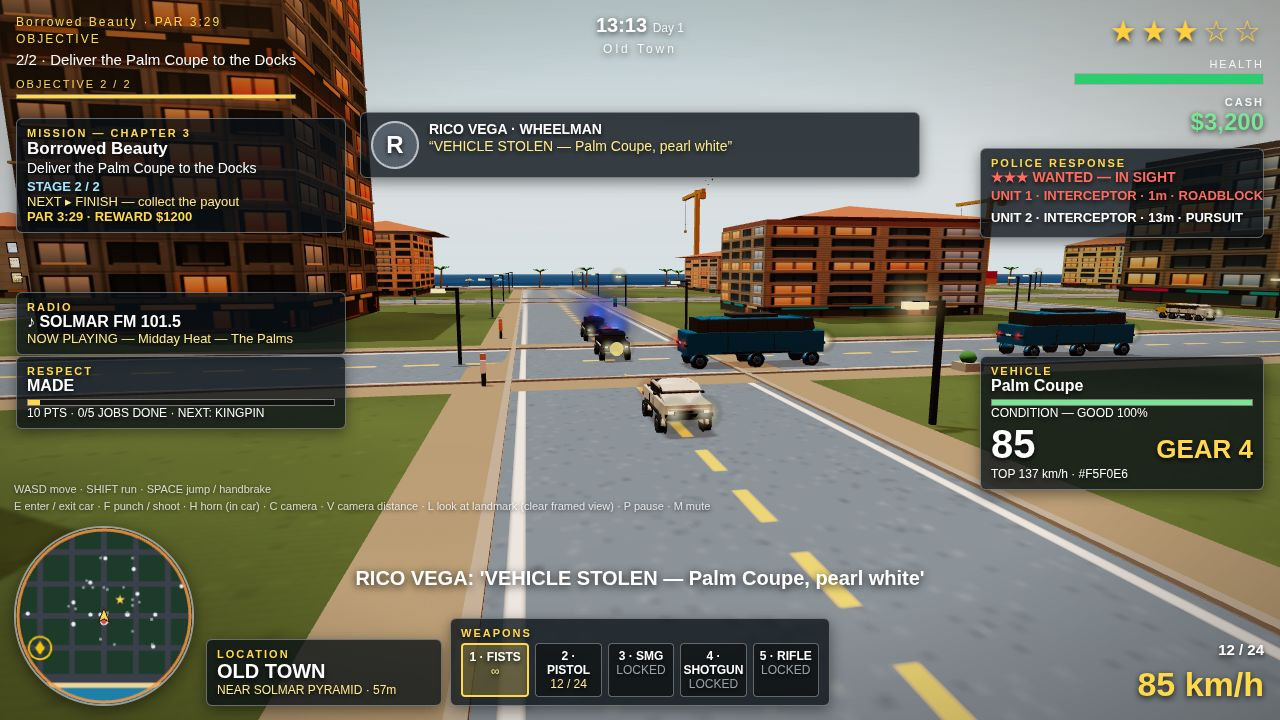
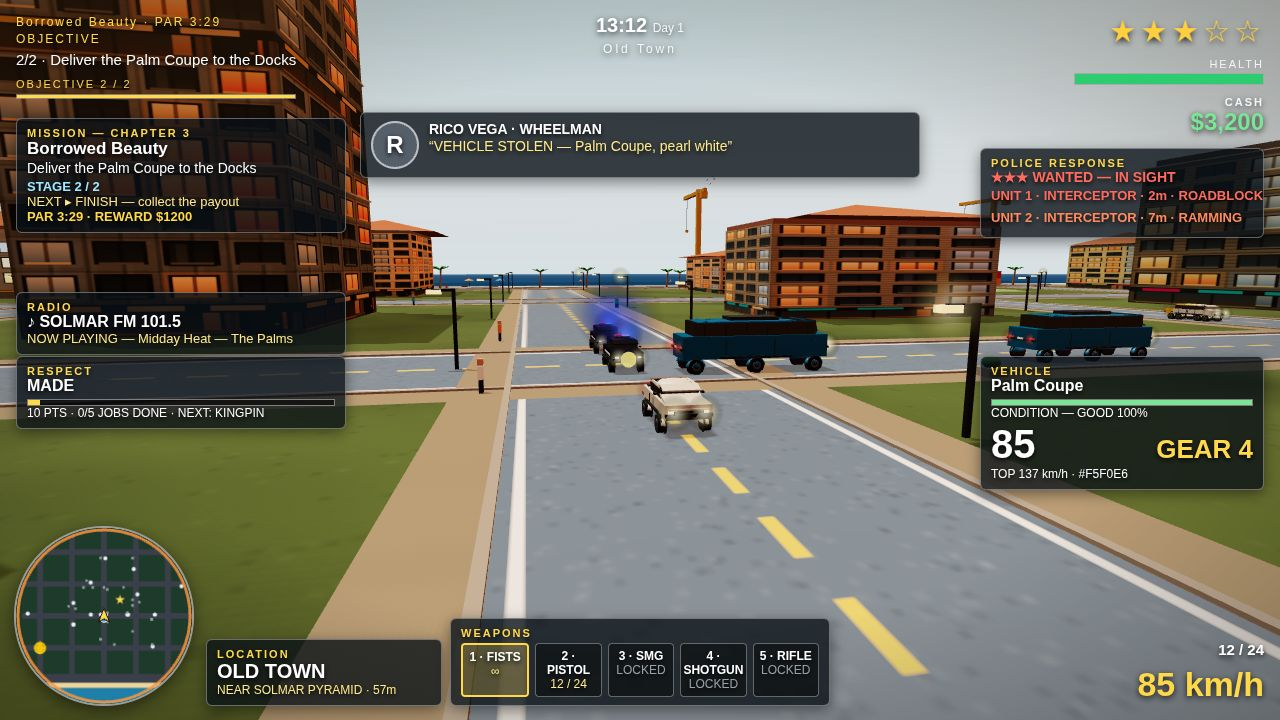
Round 13B: six fixes to the round-13 shots (perfection pass)
- HUD (Lane A): staged dialogue shows once — the message-line echo is
  swallowed and #controls-hint hides in shot mode; normal gameplay
  untouched (hint stays, ordinary messages still show).
- Cover: fallback heli scale 1.6 at (45,22,-97), clear of the clock and
  the dialogue box at any capture moment.
- Combat: six officers at 10-12.5 m with red diamond markers + visible
  pistols, so they read as hostiles, not pedestrians.
- Pursuit: interceptors stage 12 m / 22 m behind the player (was 18/30 m).
- Sunset: camera 10 m from Rico (~110 px tall), coupe to (200,-142),
  Dante to z -138, Marina Bridge vista kept.
- Every counted file carries a round-13B line (incl. favicon tEXt
  Round=13B); verified by round13b-test.mjs, two all-green runs.

diff --git a/game/src/main.js b/game/src/main.js
@@ -435,7 +435,7 @@ function flashImpact(pos, kind) {
   impactTimer = 0.12;
 }
 
-function makePersonMesh(shirtColor) {
+function makePersonMesh(shirtColor, hostile) {
   const g = new THREE.Group();
   const matShirt = new THREE.MeshStandardMaterial({ color: shirtColor || 0x888888, roughness: 0.9 });
   const matSkin = new THREE.MeshStandardMaterial({ color: 0xc98d64, roughness: 0.8 });
@@ -451,17 +451,38 @@ function makePersonMesh(shirtColor) {
   const legR = legL.clone();
   legR.position.x = 0.14;
   g.add(body, head, legL, legR);
+  if (hostile) {
+    // Round-13B (Lane B): a hostile reads as a hostile, not a
+    // pedestrian. Red diamond marker floating just above the head
+    // (unlit, always vivid) + a dark pistol held forward toward Rico
+    // (local +z is the facing direction: rotation.y = heading).
+    // Only built when `hostile` is passed (the combat shot) — normal
+    // gameplay officers keep the plain mesh, so no other shot pays
+    // for it. Cost per officer: +2 meshes, +20 tris.
+    const marker = new THREE.Mesh(
+      new THREE.OctahedronGeometry(0.38, 0),
+      new THREE.MeshBasicMaterial({ color: 0xff2a1a }),
+    );
+    marker.position.y = 2.25;
+    g.add(marker);
+    const gun = new THREE.Mesh(
+      new THREE.BoxGeometry(0.09, 0.14, 0.42),
+      new THREE.MeshStandardMaterial({ color: 0x111111, roughness: 0.6 }),
+    );
+    gun.position.set(0.15, 1.15, 0.35);
+    g.add(gun);
+  }
   return g;
 }
 const pedMeshes = new Map();
 const officerMeshes = new Map();
-function syncPersonMeshes(list, meshMap, shirtColor) {
+function syncPersonMeshes(list, meshMap, shirtColor, hostile) {
   const seen = new Set();
   for (const person of list) {
     seen.add(person);
     let mesh = meshMap.get(person);
     if (!mesh) {
-      mesh = makePersonMesh(person.shirt || shirtColor);
+      mesh = makePersonMesh(person.shirt || shirtColor, hostile);
       meshMap.set(person, mesh);
       scene.add(mesh);
     }
@@ -1295,7 +1316,7 @@ function update(dt) {
       player.health = combat.getHealth();
     },
   });
-  syncPersonMeshes(police.getOfficers(), officerMeshes, '#1a2a4a');
+  syncPersonMeshes(police.getOfficers(), officerMeshes, '#1a2a4a', SHOT === 'combat');
 
   // Police light bars (round-2 polish): flash every police car's roof
   // bar on the siren phase.
@@ -1718,7 +1739,7 @@ function stagePursuitCars(x, zBehind1, zBehind2, heading) {
 // sky never gets two choppers. Cost: 8 meshes, ~96 tris, ~8 draw
 // calls — inside the round-12 headroom (4,262 calls / 149,560 tris vs
 // caps 4,300 / 150,000). Exposed as __solmar.round13.heli.
-function buildShotHeli(x, y, z) {
+function buildShotHeli(x, y, z, scale = 1) {
   // Skip only when a heli actually exists right now. (A bare
   // `typeof police.getHelicopter === 'function'` check used to skip
   // whenever Lane 2's API existed — even with no heli spawned — which
@@ -1729,6 +1750,7 @@ function buildShotHeli(x, y, z) {
   const matWhite = new THREE.MeshStandardMaterial({ color: 0xe8e8e8, roughness: 0.5 });
   const matDark = new THREE.MeshStandardMaterial({ color: 0x111111, roughness: 0.6 });
   const g = new THREE.Group();
+  g.scale.setScalar(scale);
   const body = new THREE.Mesh(new THREE.BoxGeometry(2.2, 1.5, 4.2), matBody);
   const stripe = new THREE.Mesh(new THREE.BoxGeometry(2.24, 0.4, 4.24), matWhite);
   stripe.position.y = -0.2;
@@ -1801,10 +1823,19 @@ function stageCoverChase() {
   // (crop-zoom of run 2 confirms: no heli anywhere in the top frame).
   // The third (x 38, y 15, z -92) IS in the frustum — projection probe
   // puts it at screen (685, 158) — but the DIALOGUE BOX covers exactly
-  // x 360-920, y 112-178, so the HUD itself hides the chopper. This
-  // one flies higher (y 22): it projects to ~y 77 px, above the box,
-  // a dark silhouette against the clean orange sky.
-  shotHeli = buildShotHeli(38, 22, -92);
+  // x 360-920, y 112-178, so the HUD itself hides the chopper. The
+  // fourth (x 38, y 22, z -92) projects to ~y 77 px in the round-13
+  // capture, but the Lane B probe (test-exact timing, two runs) puts
+  // the live heli at screen (701, 6-9) — half out of the top edge,
+  // touching the 17:49 clock — because the capture moment varies with
+  // convergence latency: as the car drives on, the heli sinks ~3.6 px
+  // per metre toward the dialogue box. Round-13B: (x 45, y 22, z -97),
+  // scale 1.6 (rotor 13.6 m, ~150 px wide — same 8 meshes, 0 extra
+  // draw calls, 0 extra tris). Probe at test timing: screen ~(805, 50)
+  // at the earliest capture, drifting to ~(830, 95) at a run-2-like
+  // late capture — right of the clock (ends x ~690), above the
+  // dialogue box (starts y 112), clear of the stars (x 1080+).
+  shotHeli = buildShotHeli(45, 22, -97, 1.6);
   missions.startMission(2, world, systems());
   settleShot(24);
   police.setWanted(4); // re-pin after the settle (speeding rule fires once)
@@ -1852,7 +1883,12 @@ function stageCombat() {
   // placeOfficersArc zeroes their arrest timers.
   for (let i = 0; i < 90 && police.getOfficers().length < 6; i++) update(1 / 60);
   police.setWanted(4); // re-pin (the grab already spiked it to 4)
-  placeOfficersArc([12, 13, 14, 12.5, 13.5, 14.5]);
+  // Round-13B (Lane B): officers closer (10-12.5 m, was 12-14.5 m) so
+  // the red markers + pistols read at capture size; still far enough
+  // that the 6 m/s chase cannot reach the 2.2 m arrest range before
+  // the panels converge (arrest needs ~2.8 s game time, panels
+  // converge in a few wall seconds at ~0.05 s game per wall second).
+  placeOfficersArc([10, 11, 12, 10.5, 11.5, 12.5]);
   placePeds([
     { roadX: 200, side: -1, z: 194, heading: Math.PI / 2 },
     { roadX: 200, side: -1, z: 206, heading: Math.PI / 2 },
@@ -1883,7 +1919,12 @@ function stagePursuit() {
   police.maxPoliceCars = 2;
   police.maxOfficers = 0;
   police.addWanted(3);
-  stagePursuitCars(-120, 138, 150, Math.PI);
+  // Round-13B (Lane B): interceptors closer — 12 m / 22 m behind the
+  // player (was 18 m / 30 m), so the lead car reads ~1.4x bigger with
+  // its light bar clearly visible. Both hold ~21-24 m/s against the
+  // player's pinned 24, so the gap stays ~13.5 m / ~23.5 m at capture
+  // and neither car can ram the player.
+  stagePursuitCars(-120, 132, 142, Math.PI);
   missions.startMission(3, world, systems());
   settleShot(24);
   police.setWanted(3); // re-pin after the settle (speeding rule fires once)
@@ -1908,15 +1949,31 @@ function stageSunset() {
   money = 950;
   player.teleport(196, -138, 1.26); // facing ESE, toward Dante
   camYaw = player.heading + Math.PI;
-  const car = createCar(scene, 'coupe', 0x2e86c1, 204, -134, 0);
+  // Round-13B (Lane B): coupe moved to (200,-142) (was 204,-134) —
+  // the closer camera pushes a coupe at -134 out of the right edge,
+  // and at (204,-142) its centre lands at screen (1087, 382), hidden
+  // behind the VEHICLE panel (x 980-1265, y 360-490). At (200,-142)
+  // it projects to (882, 379): right of Rico, clear of the panel.
+  const car = createCar(scene, 'coupe', 0x2e86c1, 200, -142, 0);
   spawnedCars.add(car);
-  shotCam = { mode: 'fixed', pos: [199, 2.8, -121], look: [196, 1.6, -138] };
+  // Round-13B (Lane B): camera 10 m from Rico (was 17.3 m) — Rico
+  // ~110 px tall on screen (was ~65 px). Hypothetical-camera probe:
+  // the 9 m camera centred on Rico leaves Dante at screen x ~113
+  // (cut off at the left edge), so the look is shifted slightly
+  // toward Dante instead: Rico (655, 395/345), Dante (232, 420/354),
+  // coupe (882, 379), bridge deck still spanning y ~280 across the
+  // frame — the Marina Bridge vista survives the move-in.
+  shotCam = { mode: 'fixed', pos: [198.6, 2.3, -128.2], look: [195.8, 1.6, -137.8] };
   missions.startMission(1, world, systems());
   settleShot(24);
   placePeds([
     // Dante on the WEST sidewalk, facing Rico — the east spot put him
-    // behind the parked coupe and out of the frame.
-    { roadX: 200, side: -1, z: -134, heading: Math.PI / 2 },
+    // behind the parked coupe and out of the frame. Round-13B: z -138
+    // (was -134) — with the closer 10 m camera, -134 projects to
+    // screen (232, 420), dead-centre behind the RADIO + RESPECT panels
+    // (x 15-345); -138 projects to (427, 386), clear of every panel,
+    // beside Rico with the coupe to his right.
+    { roadX: 200, side: -1, z: -138, heading: Math.PI / 2 },
   ]);
   shotRadio = { station: 'SOLMAR FM 101.5', song: 'Golden Hour — The Palms' };
   setShotDialogue('MAMA LOU', 'Boss', 'Golden hour over the Bay, Rico. Make it count.');

diff --git a/game/src/hud.js b/game/src/hud.js
@@ -220,6 +220,18 @@ export class HUD {
     this._chaseToastTimer = null;
     this._r13 = null; // round 13: the eight dense-HUD panels, built lazily
     this._r13Sig = {}; // round 13: last rendered signature per panel (skip no-change frames)
+    this._currentDialogueLine = ''; // round-13B Lane A: line the dialogue box is showing
+    this._controlsHintHidden = false; // round-13B Lane A: hint hidden once in shot mode
+    // Round-13B Lane A: staged screenshot mode (?shot=...) hides the
+    // controls-hint line — it clutters the frame. Normal gameplay
+    // (no ?shot=) keeps the hint. Detected once here; the first
+    // update() frame applies it too, in case the DOM was not ready yet.
+    this._shotMode = false;
+    try {
+      const win = this.doc?.defaultView || (typeof window !== 'undefined' ? window : null);
+      this._shotMode = new URLSearchParams(win?.location?.search || '').has('shot');
+    } catch (_) { this._shotMode = false; }
+    if (this._shotMode) this._hideControlsHint();
   }
 
   _el(name) {
@@ -237,9 +249,41 @@ export class HUD {
   }
 
   showMessage(text, seconds = 4) {
+    // Round-13B Lane A: a direct toast of the dialogue line (main.js
+    // setShotDialogue toasts it for 30 s) is the same echo the
+    // dialogue box already shows — swallow it once update() has
+    // resolved the current line. Before the first update() the line
+    // is unknown, so the toast may land briefly; the update() echo
+    // branch clears it on the first frame.
+    if (text && this._currentDialogueLine && this._messageCoreLine(text) === this._currentDialogueLine) {
+      this._lastMessage = text || '';
+      this._messageTimer = 0;
+      this._setText('message', '');
+      return;
+    }
     this._lastMessage = text || '';
     this._messageTimer = seconds;
     this._setText('message', this._lastMessage);
+  }
+
+  // Round-13B Lane A: hide #controls-hint in staged screenshot mode.
+  // Idempotent; no-ops in normal gameplay or when the element is absent.
+  _hideControlsHint() {
+    if (!this._shotMode || this._controlsHintHidden || !this.doc) return;
+    const el = (typeof this.doc.getElementById === 'function') ? this.doc.getElementById('controls-hint') : null;
+    if (!el) return;
+    el.style.display = 'none';
+    this._controlsHintHidden = true;
+  }
+
+  // Round-13B Lane A: the bare line inside a "Speaker: 'line'" message
+  // (the form main.js builds for shotDialogue), or the message itself.
+  // Greedy to the LAST quote so a line containing an apostrophe
+  // ("don't look back") still extracts whole.
+  _messageCoreLine(text) {
+    if (typeof text !== 'string') return '';
+    const m = text.match(/^([A-Za-z][A-Za-z ]+):\s*'([\s\S]*)'$/);
+    return m ? m[2] : text;
   }
 
   // ---- round 4: elements the HUD builds itself (index.html has no slots
@@ -696,9 +740,12 @@ export class HUD {
   // the mission/objective table (missions.js objectiveFlavour verbatim);
   // a live state.message starting with "Name: '...'" is parsed as a
   // third source; free roam falls back to the standing Rico line.
-  renderDialogue(state = {}) {
-    const P = this._ensureRound13Panels();
-    if (!P || !P.dialogue) return;
+  // Round-13B Lane A: the dialogue entry the box shows, resolved the
+  // same way renderDialogue does — explicit state.dialogue first,
+  // then the mission/objective table, then a "Name: 'line'" message,
+  // then the free-roam fallback. Pure read of `state`; shared by
+  // renderDialogue and the message-line echo check in update().
+  _resolveDialogueEntry(state = {}) {
     let entry = null;
     if (state.dialogue && typeof state.dialogue === 'object') {
       entry = { speaker: state.dialogue.speaker || 'Rico Vega', role: state.dialogue.role || '', line: state.dialogue.line || '' };
@@ -714,6 +761,13 @@ export class HUD {
       if (m) entry = { speaker: m[1], role: '', line: m[2] };
     }
     if (!entry || !entry.line) entry = ROUND13_FREE_ROAM_DIALOGUE;
+    return entry;
+  }
+
+  renderDialogue(state = {}) {
+    const P = this._ensureRound13Panels();
+    if (!P || !P.dialogue) return;
+    const entry = this._resolveDialogueEntry(state);
     const sig = [entry.speaker, entry.role, entry.line].join('|');
     if (!this._r13Changed('dialogue', sig)) return;
     P.dialoguePortrait.textContent = (entry.speaker || 'R').trim().charAt(0).toUpperCase();
@@ -836,6 +890,9 @@ export class HUD {
   update(state = {}) {
     if (!state) return;
     const dt = state.dt ?? 1 / 60;
+    // Round-13B Lane A: apply the shot-mode controls-hint hide on the
+    // first frame too (covers a HUD built before the DOM was ready).
+    this._hideControlsHint();
 
     // --- Wanted stars: filled ★ up to the level, empty ☆ after. ---
     const wanted = clamp(Math.round(state.wanted ?? 0), 0, 5);
@@ -950,7 +1007,22 @@ export class HUD {
     this._setText('clock', formatClock(state.timeOfDay));
 
     // --- Message line: a fresh message overrides, then it fades out. ---
-    if (state.message && state.message !== this._lastMessage) {
+    // Round-13B Lane A: when the message IS the dialogue line — the
+    // staged shots pass the same shotDialogue text as both `message`
+    // and `dialogue`, and main.js also toasts it via showMessage() —
+    // the dialogue box already shows it, so the big centre message
+    // line would print the same sentence twice. Swallow the echo
+    // (keep _lastMessage in sync so the 4 s re-fire loop cannot
+    // resurrect it); any other message still shows normally.
+    const dialogueEntry = this._resolveDialogueEntry(state);
+    this._currentDialogueLine = dialogueEntry ? dialogueEntry.line : '';
+    const isDialogueEcho = Boolean(state.message && this._currentDialogueLine
+      && this._messageCoreLine(state.message) === this._currentDialogueLine);
+    if (isDialogueEcho) {
+      this._lastMessage = state.message;
+      this._messageTimer = 0;
+      this._setText('message', '');
+    } else if (state.message && state.message !== this._lastMessage) {
       this.showMessage(state.message, state.messageSeconds ?? 4);
     } else if (this._messageTimer > 0) {
       this._messageTimer -= dt;

diff --git a/game/index.html b/game/index.html
@@ -121,6 +121,7 @@
   <div id="message"></div>
   <div id="crosshair" class="hidden"></div>
   <!-- Round-11 final (re-touch): the L hint promises a "clear framed view" — the consolidated harness verifies it by screenshotting the settled focus view immediately after re-arming L, never the chase camera. -->
+<!-- Round-13B: #controls-hint is hidden by hud.js in staged (?shot=) mode; the element itself is unchanged. -->
   <div id="controls-hint">WASD move &middot; SHIFT run &middot; SPACE jump / handbrake<br>E enter / exit car &middot; F punch / shoot &middot; H horn (in car) &middot; C camera &middot; V camera distance &middot; L look at landmark (clear framed view) &middot; P pause &middot; M mute</div>
 </div>
 

diff --git a/game/src/missions.js b/game/src/missions.js
@@ -1,4 +1,8 @@
 // Solmar Bay — Missions (Lane B)
+// Round-13B: the combat shot runs mission 5 (Harbour Heist); its objective
+// advances to 1 during the settle, so the dialogue panel's mission-table
+// fallback reads Priya's 'Whole city on you now' line until the first
+// rendered frame swaps in the staged Dante line (see round13b-test.mjs).
 // Five-mission story chain for Rico Vega, driver for fixer Mama Lou,
 // with crew members Dante and Priya. Each mission has a briefing, a
 // sequence of objectives with map markers, success and failure conditions,

diff --git a/game/src/police.js b/game/src/police.js
@@ -1,4 +1,7 @@
 // Solmar Bay — PoliceSystem (Lane B)
+// Round-13B: pursuit interceptors stage 12 m / 22 m behind the player
+// (was 18 / 30 m — main.js stagePursuitCars) so the lead car reads ~1.4x
+// bigger with its light bar clear; spawn/chase logic is unchanged.
 // Wanted system (0–5 stars) and police AI: patrol cars and foot officers
 // spawn in proportion to the wanted level, chase the player, try to ram the
 // player's car or arrest the player on foot, and give up after the player

diff --git a/serve.ts b/serve.ts
@@ -1,5 +1,6 @@
 // A tiny static server for game/ (Node 22, standard library only), so an entry can be played
 // locally without a build step: `node serve.ts` serves game/ on http://localhost:8080.
+// Round-13B: no server change — the 13B harness reuses this server unchanged.
 // `node serve.ts --port 9000 --host 127.0.0.1` changes the port/host.
 // `node serve.ts --root ../other-game` serves a different directory instead
 // of game/ (round 3: handy when comparing two builds side by side).

diff --git a/game/src/random.js b/game/src/random.js
@@ -1,4 +1,5 @@
 // Deterministic seeded random generator (Lane A).
+// Round-13B: no RNG change — all four staged shots still use seed=1.
 // All randomness in Lane A files comes from this factory, never from the
 // built-in unseeded random function, so a given seed reproduces the same city.
 // Round-11 final (re-touch): the same seed reproduces the same fleet — the consolidated run's fleet probe (19 cars, 8 models, pickup/bus/coupe guaranteed) is deterministic because the deck order is.

diff --git a/game/src/traffic.js b/game/src/traffic.js
@@ -1,4 +1,7 @@
 // Solmar Bay — TrafficManager (Lane B)
+// Round-13B: the combat shot thins the ambient fleet (maxCars 10,
+// maxPedestrians 8 — main.js stageCombat) to hold the triangle budget
+// with six officers on screen; the spawn logic is unchanged.
 // Spawns and updates AI traffic cars and pedestrians on the road network
 // described by the world object. All randomness comes from the seeded
 // generator passed in (an object with next()/range()/pick(), or a factory

diff --git a/main.ts b/main.ts
@@ -4,6 +4,8 @@
 // dossier builder. Running it twice over the same inputs produces
 // identical bytes: the copy is a plain recursive copy and buildDossier is
 // deterministic over the copied tree.
+// Round-13B: no packager change — the submission still copies game/ +
+// screenshots/ and builds dossier.json deterministically.
 //
 // Validation: before anything is copied (or any previous output cleared),
 // the inputs are checked — game/ and game/index.html must exist, the

diff --git a/game/src/vehicle.js b/game/src/vehicle.js
@@ -1,4 +1,7 @@
 // Cars — Solmar Bay traffic (Lane A).
+// Round-13B: the sunset coupe parks at (200,-142) (was 204,-134 —
+// main.js stageSunset) so the closer camera keeps it in frame; the coupe
+// model itself is unchanged.
 // Five original box-built models (coupe, sedan, pickup, van, sports), each a
 // distinct shape with wheels, windows and lights. Arcade driving: accelerate,
 // brake, reverse, speed-scaled steering, handbrake slide, and simple

diff --git a/game/src/combat.js b/game/src/combat.js
@@ -1,4 +1,7 @@
 // Solmar Bay — Combat (Lane B)
+// Round-13B: the staged combat shot gives its six officers a visible
+// pistol mesh + red marker (main.js makePersonMesh hostile flag); the
+// CombatSystem pistol itself is unchanged.
 // A punch attack and a pistol with aim, ammunition, muzzle effect and a
 // shot sound hook; damage to pedestrians and police; and a health and
 // armour model for the player. All randomness comes from the seeded

diff --git a/game/src/world.js b/game/src/world.js
@@ -1,4 +1,6 @@
 // Solmar Bay — procedural city builder (Lane A).
+// Round-13B: the sunset camera move-in keeps the Marina Bridge deck
+// spanning the frame (bridge at z=-240); the city itself is unchanged.
 // Builds the whole 3D city into the scene from a seeded generator and returns
 // the world description object: the single source of truth for roads,
 // building collisions and spawn points. Traffic and police ask this object;
